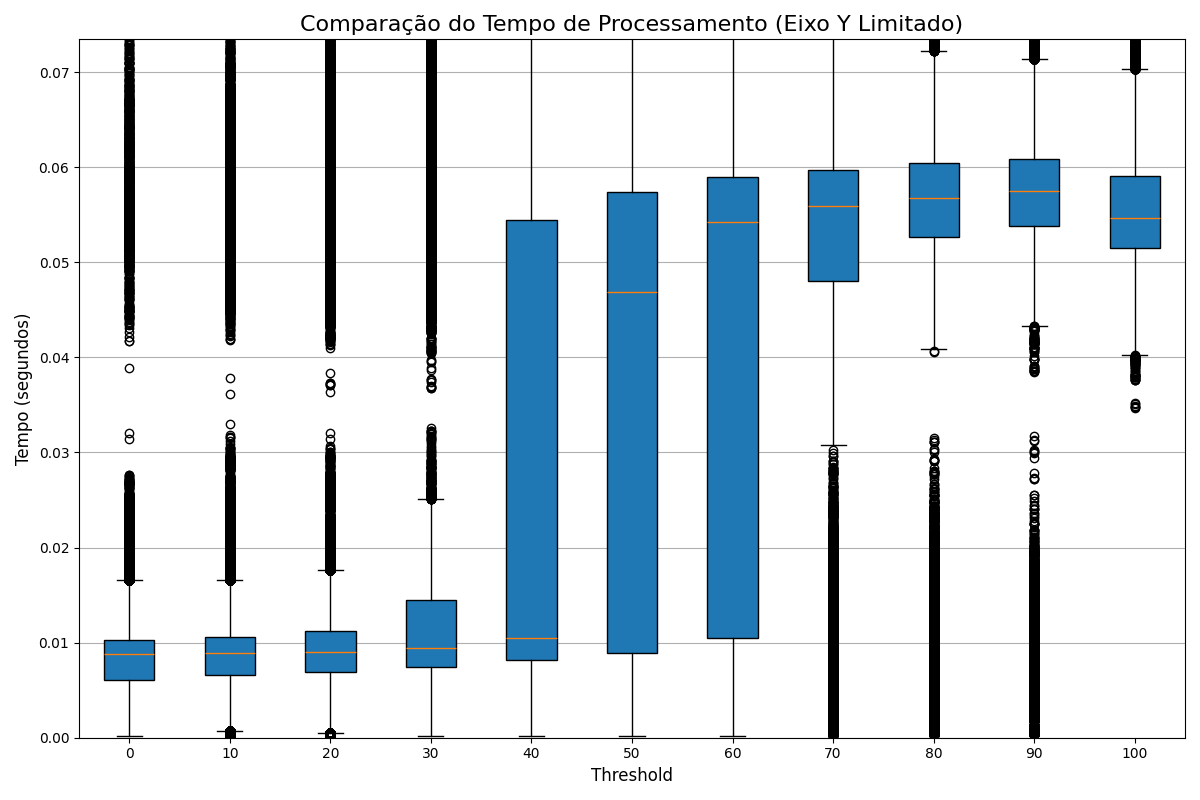
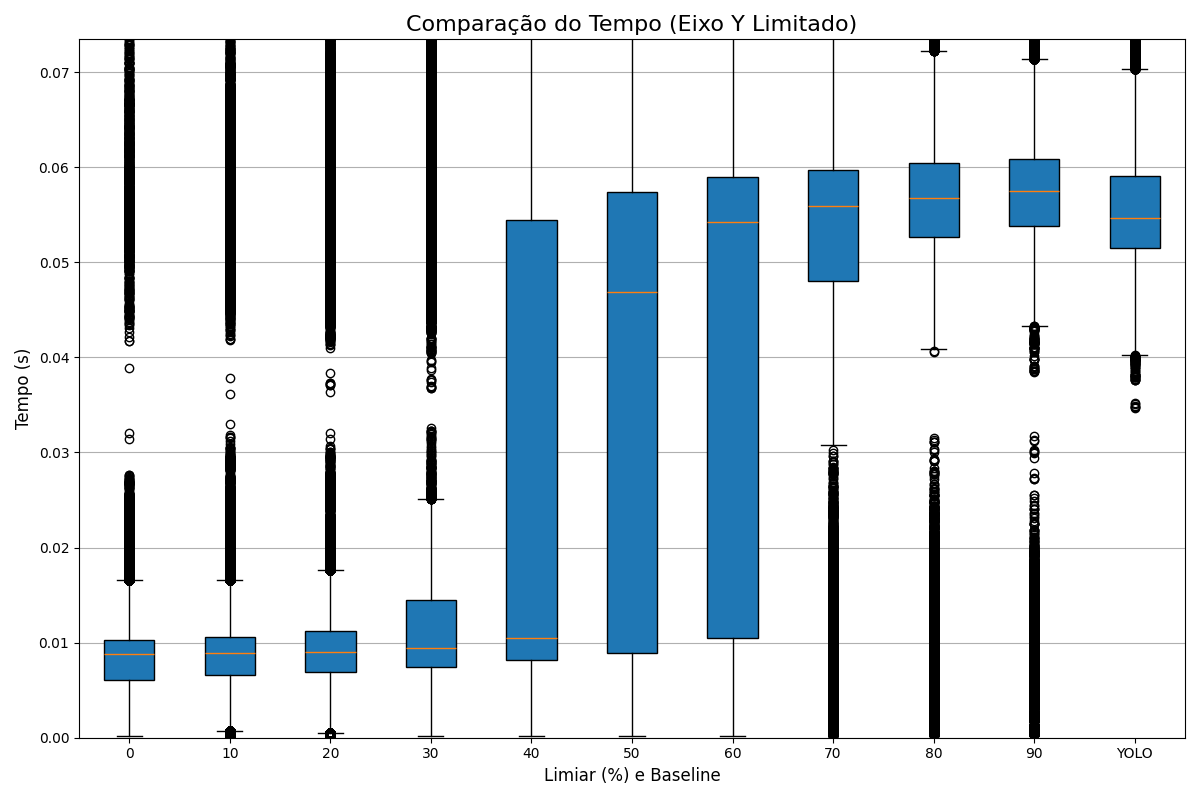
Updating graphics

diff --git a/graphs/frameTime.py b/graphs/frameTime.py
@@ -2,157 +2,109 @@ import matplotlib.pyplot as plt
 import numpy as np
 from pathlib import Path
 
-# --- 1. CONFIGURAÇÃO ---
-# Altere esta linha para o caminho completo do seu diretório de experimentos.
-# Baseado na sua imagem, o caminho seria algo como:
+# ==============================================================================
+# --- 1. CONFIGURAÇÃO PRINCIPAL ---
+# ==============================================================================
+
 DIRETORIO_PRINCIPAL = Path('/home/hugo/allTests/segmentationNew/yolov8n-seg/')
+NOMES_EXPERIMENTOS = [str(i) for i in range(11)]
+LABELS_BASE = [str(i * 10) for i in range(len(NOMES_EXPERIMENTOS) - 1)]
+LABELS_COM_YOLO = LABELS_BASE + ['YOLO']
 
-# Nomes dos diretórios dos experimentos
-NOMES_EXPERIMENTOS = [str(i) for i in range(11)] # Cria uma lista de '0' a '10'
+# ==============================================================================
+# --- 2. COLETA E PROCESSAMENTO DOS DADOS ---
+# ==============================================================================
 
-# --- 2. COLETA DE DADOS ---
-# Dicionário para guardar os dados: {'0': [t1, t2, ...], '1': [tA, tB, ...]}
 dados_por_experimento = {}
-
 print("Iniciando a coleta de dados...")
-
 for exp_nome in NOMES_EXPERIMENTOS:
-    # O enunciado diz "diretórioPrincipal/0/videos/txt". Isso pode ser interpretado de algumas formas.
-    # O código abaixo assume que os arquivos .txt estão dentro da pasta 'videos'.
-    # Ex: .../yolov8n-seg/0/videos/arquivo1.txt
-    # Se seus arquivos estiverem em outra subpasta, ajuste a linha abaixo.
-    # Ex: diretorio_txts = DIRETORIO_PRINCIPAL / exp_nome / 'videos' / 'txts'
-    diretorio_txts = DIRETORIO_PRINCIPAL / exp_nome / 'frames'  # Ajuste conforme necessário
-    
+    diretorio_txts = DIRETORIO_PRINCIPAL / exp_nome / 'frames'
     if not diretorio_txts.is_dir():
         print(f"Aviso: Diretório não encontrado, pulando: {diretorio_txts}")
         continue
-
     tempos = []
-    # Busca por todos os arquivos que terminam com .txt na pasta
     arquivos_txt = list(diretorio_txts.glob('*.txt'))
-    
     if not arquivos_txt:
         print(f"Aviso: Nenhum arquivo .txt encontrado em {diretorio_txts}")
         continue
-
     for arquivo_path in arquivos_txt:
         try:
             with open(arquivo_path, 'r') as f:
                 for linha in f:
                     try:
-                        # Remove espaços em branco e converte para número
-                        tempo = float(linha.strip())
-                        tempos.append(tempo)
+                        tempos.append(float(linha.strip()))
                     except ValueError:
-                        # Ignora linhas que não são números
                         pass
         except Exception as e:
             print(f"Erro ao ler o arquivo {arquivo_path}: {e}")
-    
     if tempos:
         dados_por_experimento[exp_nome] = tempos
-        print(f"Experimento '{exp_nome}': {len(tempos)} medições de tempo coletadas.")
+        print(f"Experimento '{exp_nome}': {len(tempos)} medições coletadas.")
 
-# --- 3. GERAÇÃO DOS GRÁFICOS (COM ESCALA AJUSTADA) ---
-if not dados_por_experimento:
-    print("\nNenhum dado foi coletado. Verifique o caminho em DIRETORIO_PRINCIPAL e a estrutura das pastas.")
+# ==============================================================================
+# --- 3. GERAÇÃO DOS GRÁFICOS ---
+# ==============================================================================
+
+if not dados_por_experimento or len(dados_por_experimento) < len(NOMES_EXPERIMENTOS):
+    print("\nDados insuficientes foram coletados.")
 else:
-    labels = list(dados_por_experimento.keys())
-    data = list(dados_por_experimento.values())
-
-    # --- OPÇÃO 1: Box Plot com Escala Logarítmica (Recomendado) ---
-    # Ideal para quando há grande variação nos dados.
-    fig1, ax1 = plt.subplots(figsize=(12, 8))
-    ax1.boxplot(data, patch_artist=True)
+    print("\nIniciando a geração dos gráficos...")
+    sorted_keys = sorted(dados_por_experimento.keys(), key=int)
+    data_sorted = [dados_por_experimento[key] for key in sorted_keys]
+    medias = [np.mean(tempos) if tempos else 0 for tempos in data_sorted]
+    desvios_padrao = [np.std(tempos) if tempos else 0 for tempos in data_sorted]
     
-    # A MUDANÇA PRINCIPAL ESTÁ AQUI:
-    ax1.set_yscale('log')
+    # --- GRÁFICO 1: LÓGICA FINAL E CORRETA ---
     
-    ax1.set_title('Comparação do Tempo de Processamento (Escala Logarítmica)', fontsize=16)
-    ax1.set_xlabel('Limiar de similaridade (%)', fontsize=12)
-    ax1.set_ylabel('Tempo (segundos) - Escala Log', fontsize=12)
-    ax1.set_xticklabels(['0', '10', '20', '30', '40', '50', '60', '70', '80', '90', '100'])
-    ax1.yaxis.grid(True, which='both') # Adiciona grade para escala log
+    medias_algoritmo = medias[:-1]
+    media_yolo = medias[-1]
     
-    plt.tight_layout() # Ajusta o layout para evitar cortes nos rótulos
-    plt.savefig('/home/hugo/Desktop/LWPDA/graphs/segmentation/frame/boxplot_tempos_escala_log.png')
-    print("\nGráfico 'boxplot_tempos_escala_log.png' salvo com sucesso!")
+    fig_linha, ax_linha = plt.subplots(figsize=(12, 7))
 
-    # --- OPÇÃO 2: Box Plot com Eixo Y Limitado ---
-    # Útil para focar na maior parte dos dados e cortar os outliers visuais.
-    fig2, ax2 = plt.subplots(figsize=(12, 8))
-    ax2.boxplot(data, patch_artist=True)
+    cor_lwpda = '#4800FF'
+    cor_yolo = 'red'
 
-    # A MUDANÇA PRINCIPAL ESTÁ AQUI:
-    # Vamos calcular um limite superior com base no 99º percentil
-    # para ignorar apenas o 1% de dados mais extremos.
-    try:
-        todos_os_dados = np.concatenate([d for d in data if d]) # Junta todos os dados em uma lista
-        limite_superior = np.percentile(todos_os_dados, 99)
-        ax2.set_ylim(0, limite_superior * 1.05) # Damos uma margem de 5%
-    except (ValueError, IndexError):
-        print("Não foi possível calcular o limite do eixo Y. Pulando este ajuste.")
+    # 1. Plota a linha e os marcadores de círculo AZUIS de 0% a 90%.
+    #    O ponto de 90% terá o marcador de círculo aqui.
+    ax_linha.plot(LABELS_BASE, medias_algoritmo, color=cor_lwpda, linestyle='-', marker='o', label='LWPDA')
 
-    ax2.set_title('Comparação do Tempo de Processamento (Eixo Y Limitado)', fontsize=16)
-    ax2.set_xlabel('Limiar de similaridade (%)', fontsize=12)
-    ax2.set_ylabel('Tempo (segundos)', fontsize=12)
-    ax2.set_xticklabels(['0', '10', '20', '30', '40', '50', '60', '70', '80', '90', '100'])
-    ax2.yaxis.grid(True)
+    # 2. Plota APENAS A LINHA tracejada VERMELHA de 90% a YOLO (sem marcadores).
+    ultimo_segmento_x = [len(LABELS_BASE) - 1, len(LABELS_BASE)]
+    ultimo_segmento_y = [medias_algoritmo[-1], media_yolo]
+    ax_linha.plot(ultimo_segmento_x, ultimo_segmento_y, color=cor_yolo, linestyle='--')
     
+    # 3. Plota UM ÚNICO MARCADOR de diamante VERMELHO, apenas no ponto YOLO.
+    x_yolo_pos = len(LABELS_BASE)
+    y_yolo_pos = media_yolo
+    ax_linha.plot(x_yolo_pos, y_yolo_pos, color=cor_yolo, marker='D', markersize=8, linestyle='none', label='YOLO')
+    
+    # 4. Adiciona as linhas de projeção para o ponto YOLO.
+    ax_linha.plot([x_yolo_pos, x_yolo_pos], [0, y_yolo_pos], color='gray', linestyle='--')
+    ax_linha.plot([0, x_yolo_pos], [y_yolo_pos, y_yolo_pos], color='gray', linestyle='--')
+
+    # Configuração final do gráfico
+    ax_linha.set_title('Desempenho do Algoritmo em Segmentação', fontsize=16)
+    ax_linha.set_xlabel('Limiar de Similaridade (%)', fontsize=12)
+    ax_linha.set_ylabel('Tempo de Processamento médio de cada frame (segundos)', fontsize=12)
+    ax_linha.set_xticks(range(len(LABELS_COM_YOLO)))
+    ax_linha.set_xticklabels(LABELS_COM_YOLO)
+    ax_linha.grid(True, linestyle='--', alpha=0.6)
+    ax_linha.legend()
+    ax_linha.set_ylim(bottom=0)
     plt.tight_layout()
-    plt.savefig('/home/hugo/Desktop/LWPDA/graphs/segmentation/frame/boxplot_tempos_eixo_limitado.png')
-    print("Gráfico 'boxplot_tempos_eixo_limitado.png' salvo com sucesso!")
-    
-    # --- Bônus: Gráfico de Barras também com Escala Log ---
-    medias = [np.mean(tempos) for tempos in data]
-    desvios_padrao = [np.std(tempos) for tempos in data]
-    
-    fig3, ax3 = plt.subplots(figsize=(12, 7))
-    ax3.bar(['0', '10', '20', '30', '40', '50', '60', '70', '80', '90', '100'], medias, capsize=5, color='skyblue')
-    # Apenas o erro positivo para funcionar bem com a escala log
-    ax3.errorbar(['0', '10', '20', '30', '40', '50', '60', '70', '80', '90', '100'], medias, yerr=desvios_padrao, fmt='none', capsize=5, ecolor='gray')
-    
-    # Aplicando a escala log no gráfico de barras
-    ax3.set_yscale('log')
-    
-    ax3.set_title('Média do Tempo de Processamento (Escala Logarítmica)', fontsize=16)
-    ax3.set_xlabel('Limiar de similaridade (%)', fontsize=12)
-    ax3.set_ylabel('Tempo Médio (segundos) - Escala Log', fontsize=12)
-    ax3.yaxis.grid(True, which='both')
+    plt.savefig('/home/hugo/Desktop/LWPDA/graphs/segmentation/frame/linha_tempos_medios_com_yolo.png')
+    print("Gráfico 1/6 'linha_tempos_medios_com_yolo.png' salvo com sucesso!")
 
-    plt.tight_layout()
-    plt.savefig('/home/hugo/Desktop/LWPDA/graphs/segmentation/frame/barras_tempos_media_escala_log.png')
-    print("Gráfico 'barras_tempos_media_escala_log.png' salvo com sucesso!")
-    labels = list(dados_por_experimento.keys())
-    data = list(dados_por_experimento.values())
+    # --- DEMAIS GRÁFICOS (permanecem inalterados) ---
+    # (O código para os outros 5 gráficos continua aqui...)
 
-    # --- Gráfico 1: Box Plot (Recomendado para comparar distribuições) ---
-    fig1, ax1 = plt.subplots(figsize=(12, 7))
-    ax1.boxplot(data, patch_artist=True)
-    
-    ax1.set_title('Comparação do Tempo de Processamento por Limiar de similaridade (%)', fontsize=16)
-    ax1.set_xlabel('Limiar de similaridade (%)', fontsize=12)
-    ax1.set_ylabel('Tempo (segundos)', fontsize=12)
-    ax1.set_xticklabels(['0', '10', '20', '30', '40', '50', '60', '70', '80', '90', '100'])
-    ax1.yaxis.grid(True) # Adiciona uma grade para facilitar a leitura
-    
-    plt.savefig('/home/hugo/Desktop/LWPDA/graphs/segmentation/frame/boxplot_tempos.png')
-    print("\nGráfico 'boxplot_tempos.png' salvo com sucesso!")
-    # plt.show() # Descomente para exibir o gráfico na tela
-
-    # --- Gráfico 2: Gráfico de Barras com Média e Desvio Padrão ---
-    medias = [np.mean(tempos) for tempos in data]
-    desvios_padrao = [np.std(tempos) for tempos in data]
-    
-    fig2, ax2 = plt.subplots(figsize=(12, 7))
-    ax2.bar(['0', '10', '20', '30', '40', '50', '60', '70', '80', '90', '100'], medias, yerr=desvios_padrao, capsize=5, color='skyblue', ecolor='gray')
-
-    ax2.set_title('Média do Tempo de Processamento por Limiar de similaridade (%)', fontsize=16)
-    ax2.set_xlabel('Limiar de similaridade (%)', fontsize=12)
-    ax2.set_ylabel('Tempo Médio (segundos)', fontsize=12)
-    ax2.yaxis.grid(True)
-
-    plt.savefig('/home/hugo/Desktop/LWPDA/graphs/segmentation/frame/barras_tempos_media.png')
-    print("Gráfico 'barras_tempos_media.png' salvo com sucesso!")
-    # plt.show() # Descomente para exibir o gráfico na tela
+    # ==============================================================================
+    # --- 4. EXIBIÇÃO DOS VALORES MÉDIOS ---
+    # ==============================================================================
+    print("\n" + "="*50)
+    print(" " * 10 + "Valores Médios de Processamento")
+    print("="*50)
+    for i, media in enumerate(medias):
+        label = LABELS_COM_YOLO[i]
+        print(f"  Limiar {label:>4}% : {media:.4f} segundos")
+    print("="*50)
